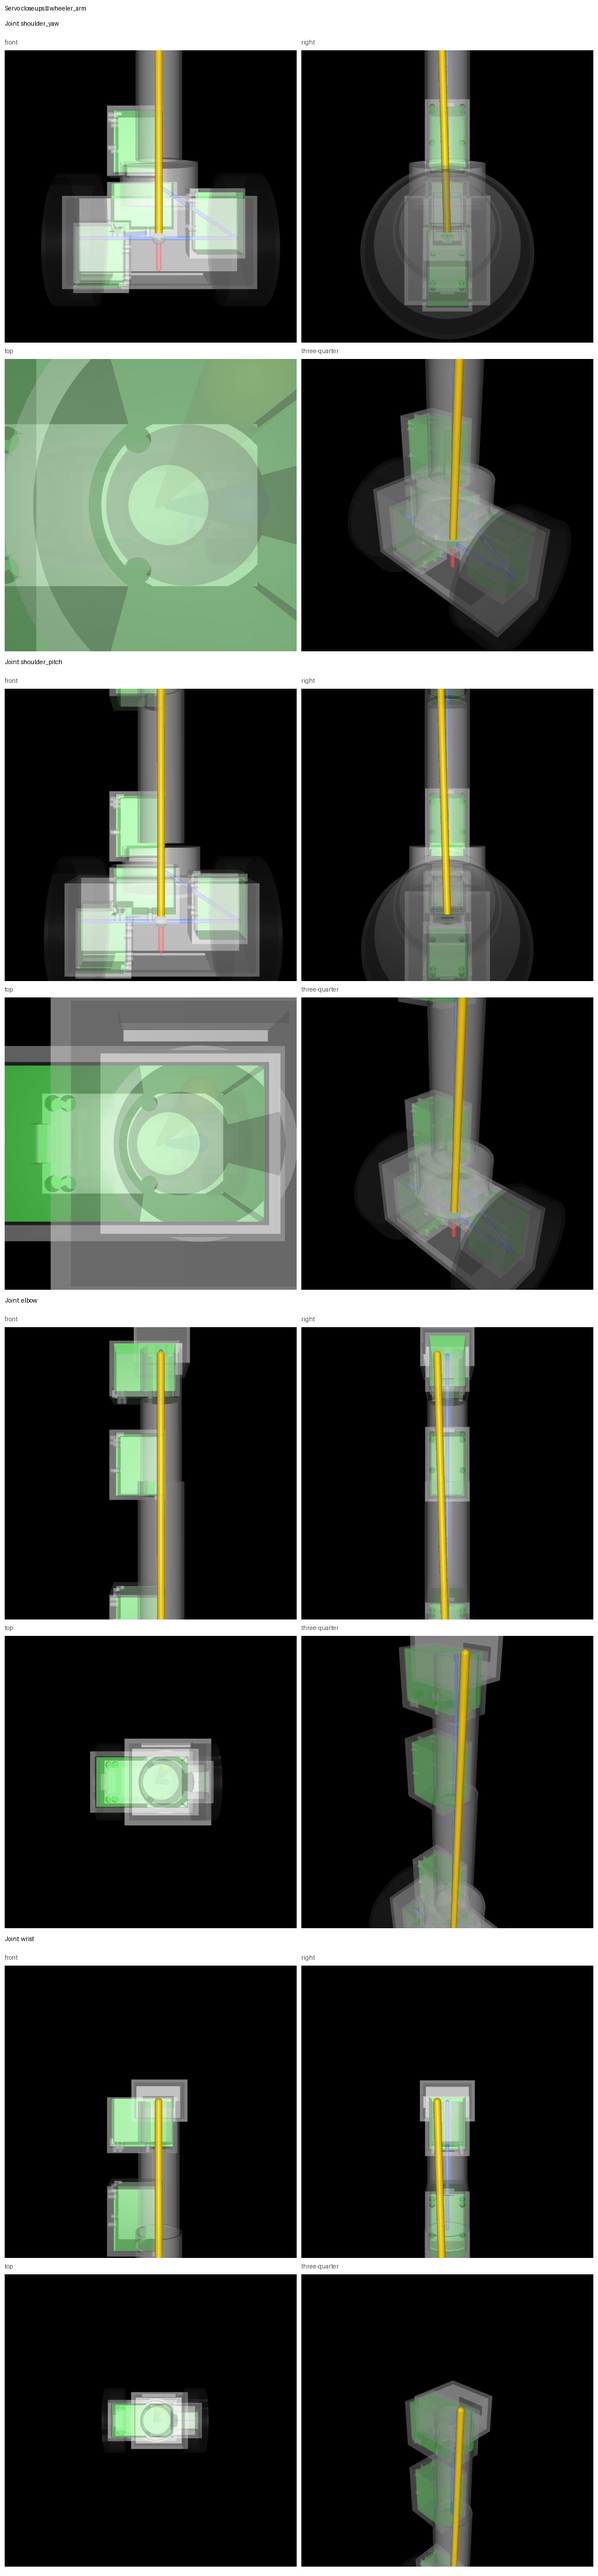
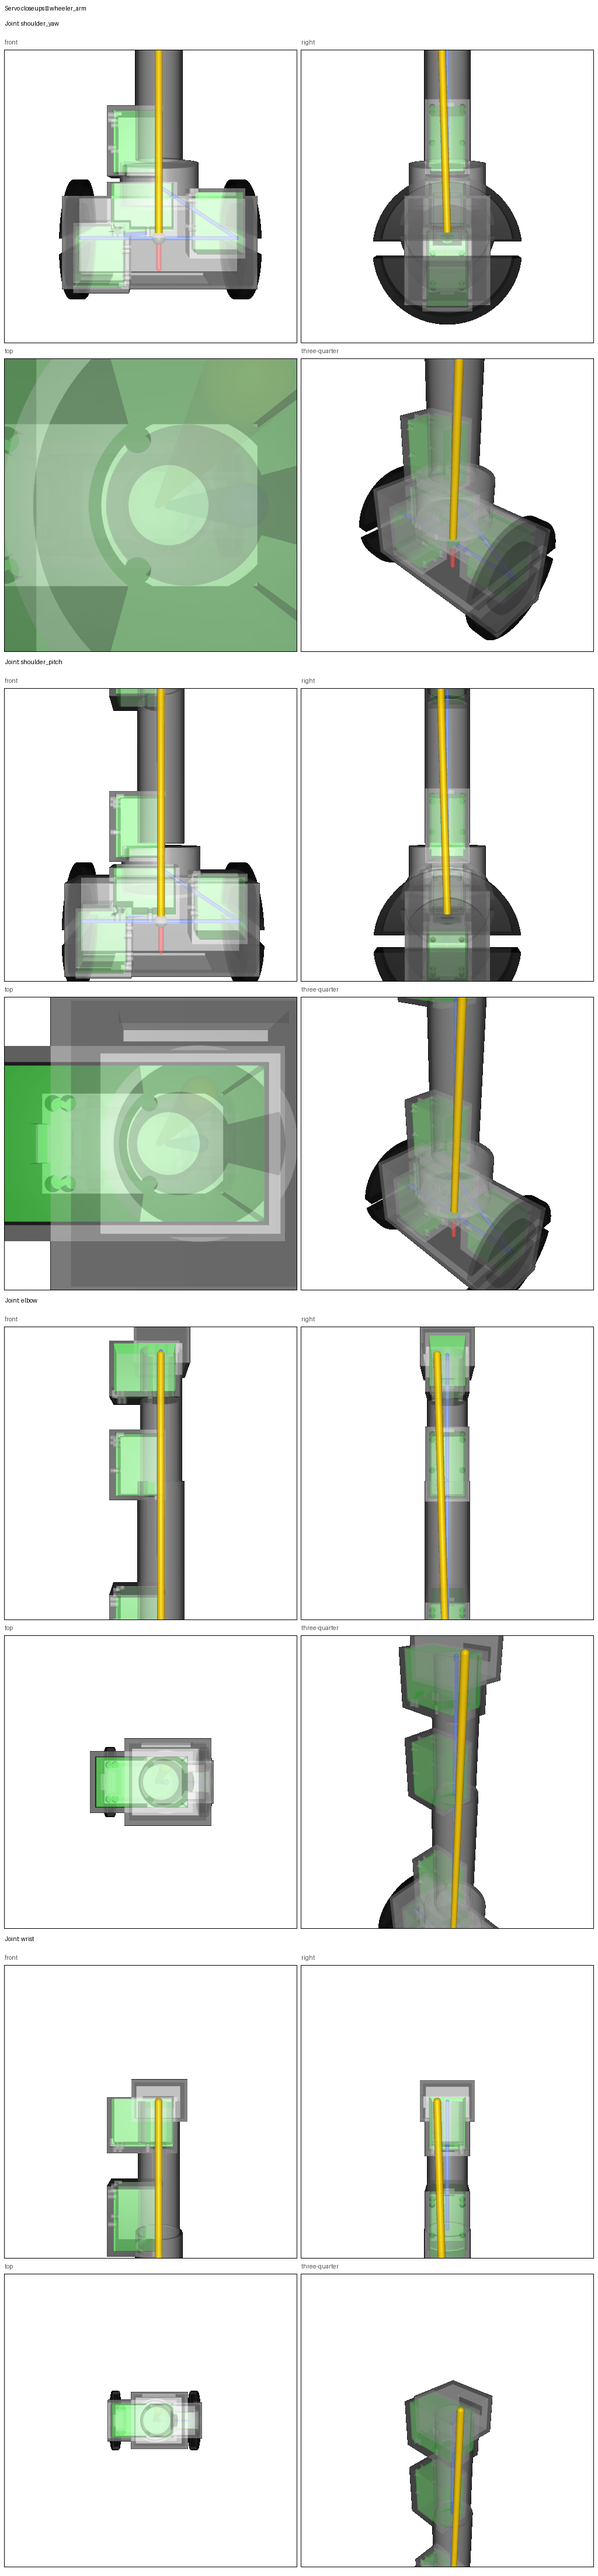
White background + black borders for all bot renders
Standardize bot validation renders (overview, closeups, sweeps) to
match component tear sheets: white background instead of black,
1px black borders around each view cell. Black tires are now visible
instead of disappearing into the background.

diff --git a/botcad/emit/renders.py b/botcad/emit/renders.py
@@ -79,7 +79,11 @@ def _render(
     cam.azimuth = azimuth
     cam.elevation = elevation
     renderer.update_scene(data, camera=cam)
-    return renderer.render().copy()
+    img = renderer.render().copy()
+    # White background — replace black pixels
+    mask = np.all(img == 0, axis=2)
+    img[mask] = 255
+    return img
 
 
 def _set_mesh_alpha(model: mujoco.MjModel, alpha: float) -> np.ndarray:
@@ -180,7 +184,13 @@ def render_overview(
         x = margin + col * (VIEW_W + margin)
         y = title_h + margin + row * (VIEW_H + label_h + margin)
         draw.text((x, y), label, fill=(80, 80, 80))
-        canvas.paste(img, (x, y + label_h))
+        img_y = y + label_h
+        draw.rectangle(
+            [x - 1, img_y - 1, x + VIEW_W, img_y + VIEW_H],
+            outline=(0, 0, 0),
+            width=1,
+        )
+        canvas.paste(img, (x, img_y))
 
     out = output_dir / "test_overview.png"
     canvas.save(out)
@@ -274,7 +284,13 @@ def render_closeups(
             x = margin + col * (VIEW_W + margin)
             y = sec_y + header_h + margin + row * (VIEW_H + label_h + margin)
             draw.text((x, y), label, fill=(80, 80, 80))
-            canvas.paste(img, (x, y + label_h))
+            img_y = y + label_h
+            draw.rectangle(
+                [x - 1, img_y - 1, x + VIEW_W, img_y + VIEW_H],
+                outline=(0, 0, 0),
+                width=1,
+            )
+            canvas.paste(img, (x, img_y))
 
     out = output_dir / "test_closeups.png"
     canvas.save(out)
@@ -433,8 +449,8 @@ def render_sweeps(bot_xml: Path, model_base: mujoco.MjModel, output_dir: Path) -
             x = margin + fi * (SWEEP_W + margin)
             y = sy + header_h
 
-            # Draw red border if collision detected
             if has_col:
+                # Red border for collision frames
                 draw.rectangle(
                     [
                         x - border_w,
@@ -443,6 +459,13 @@ def render_sweeps(bot_xml: Path, model_base: mujoco.MjModel, output_dir: Path) -
                         y + SWEEP_H + border_w,
                     ],
                     fill=(220, 40, 40),
+                )
+            else:
+                # Black border for normal frames
+                draw.rectangle(
+                    [x - 1, y - 1, x + SWEEP_W, y + SWEEP_H],
+                    outline=(0, 0, 0),
+                    width=1,
                 )
 
             canvas.paste(frame, (x, y))
